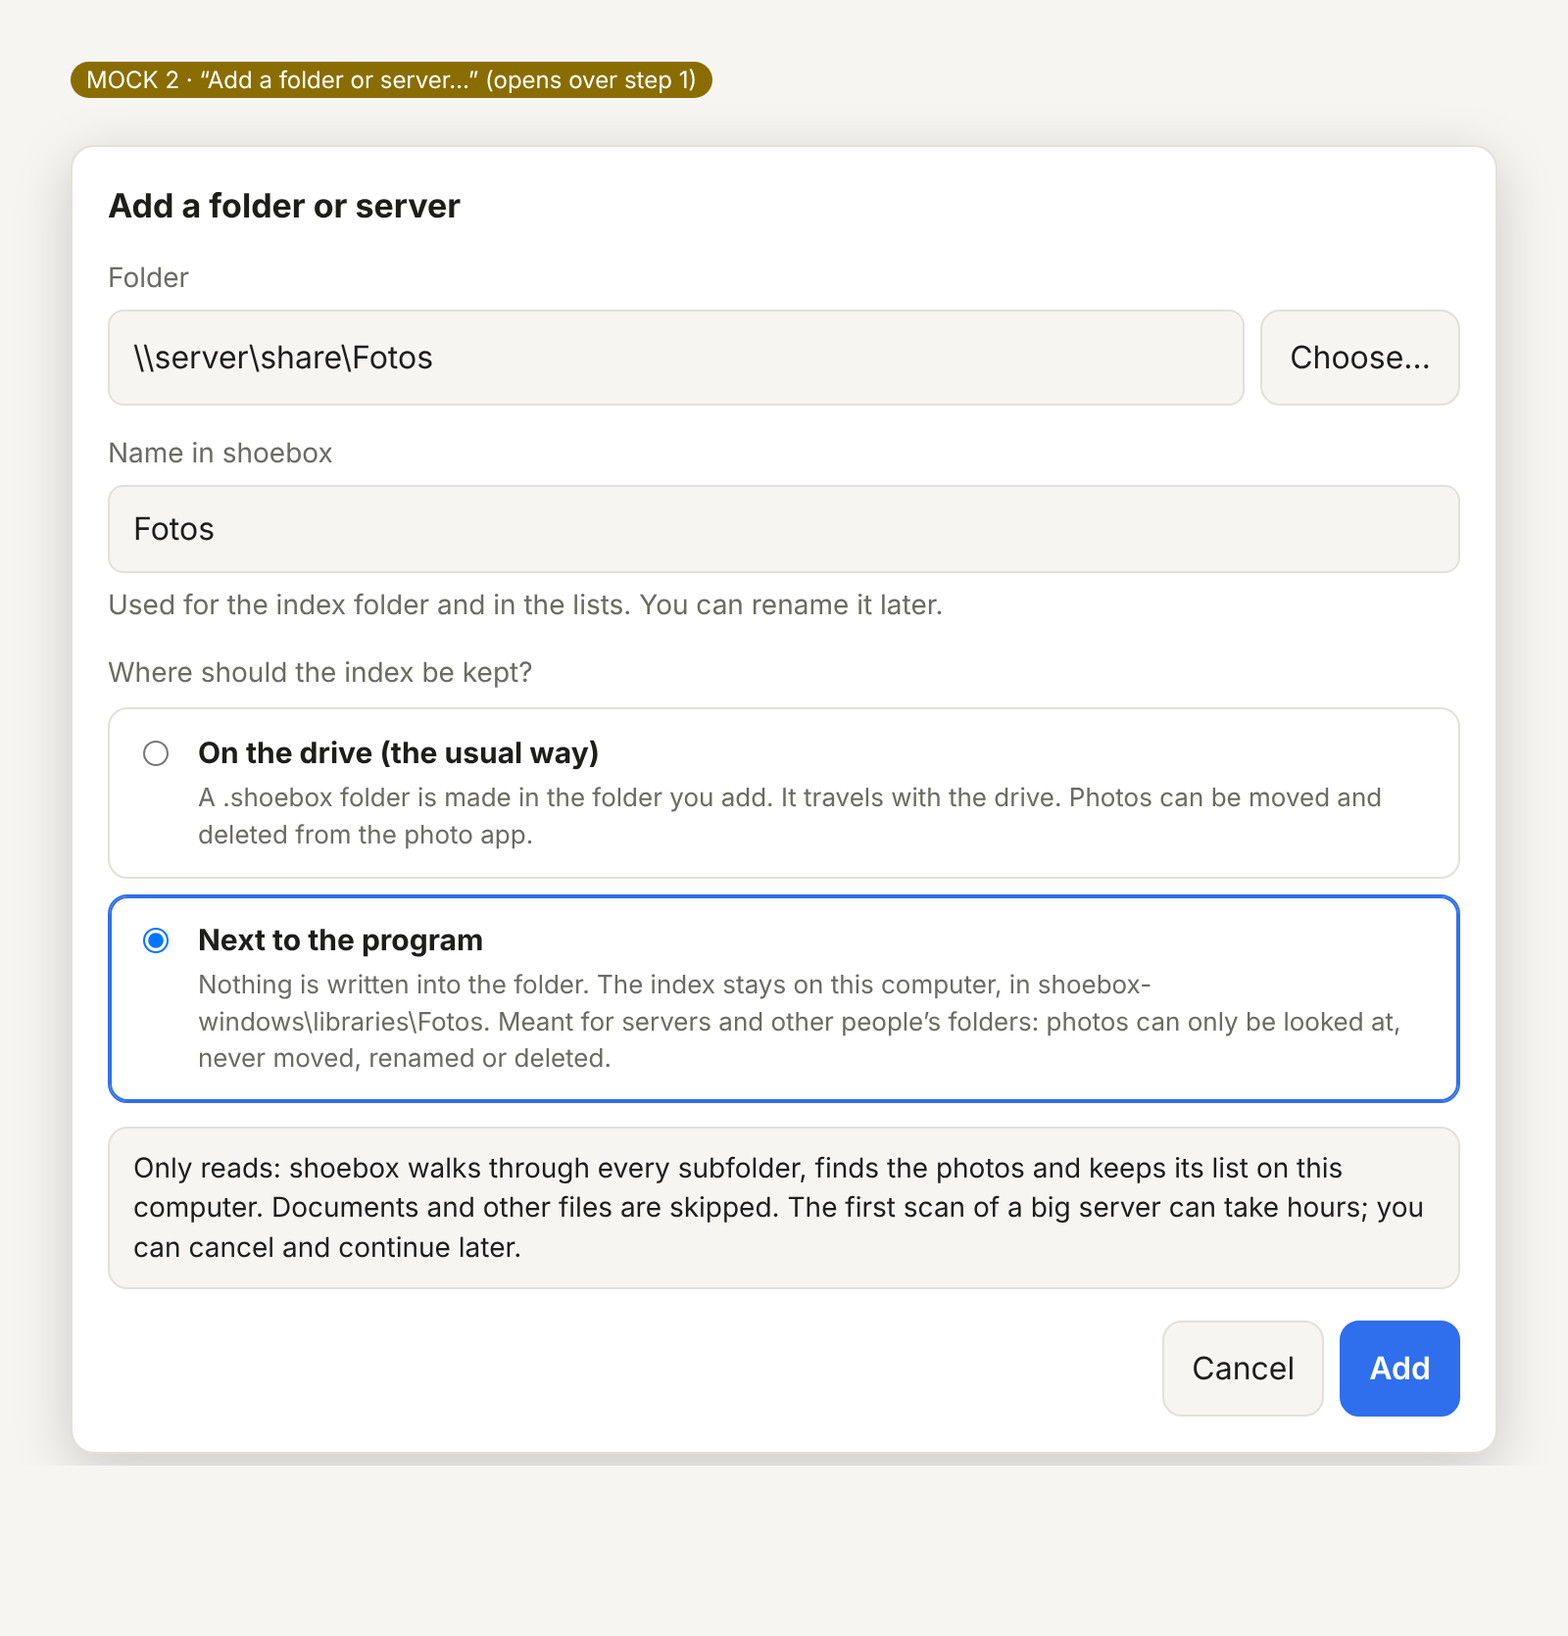
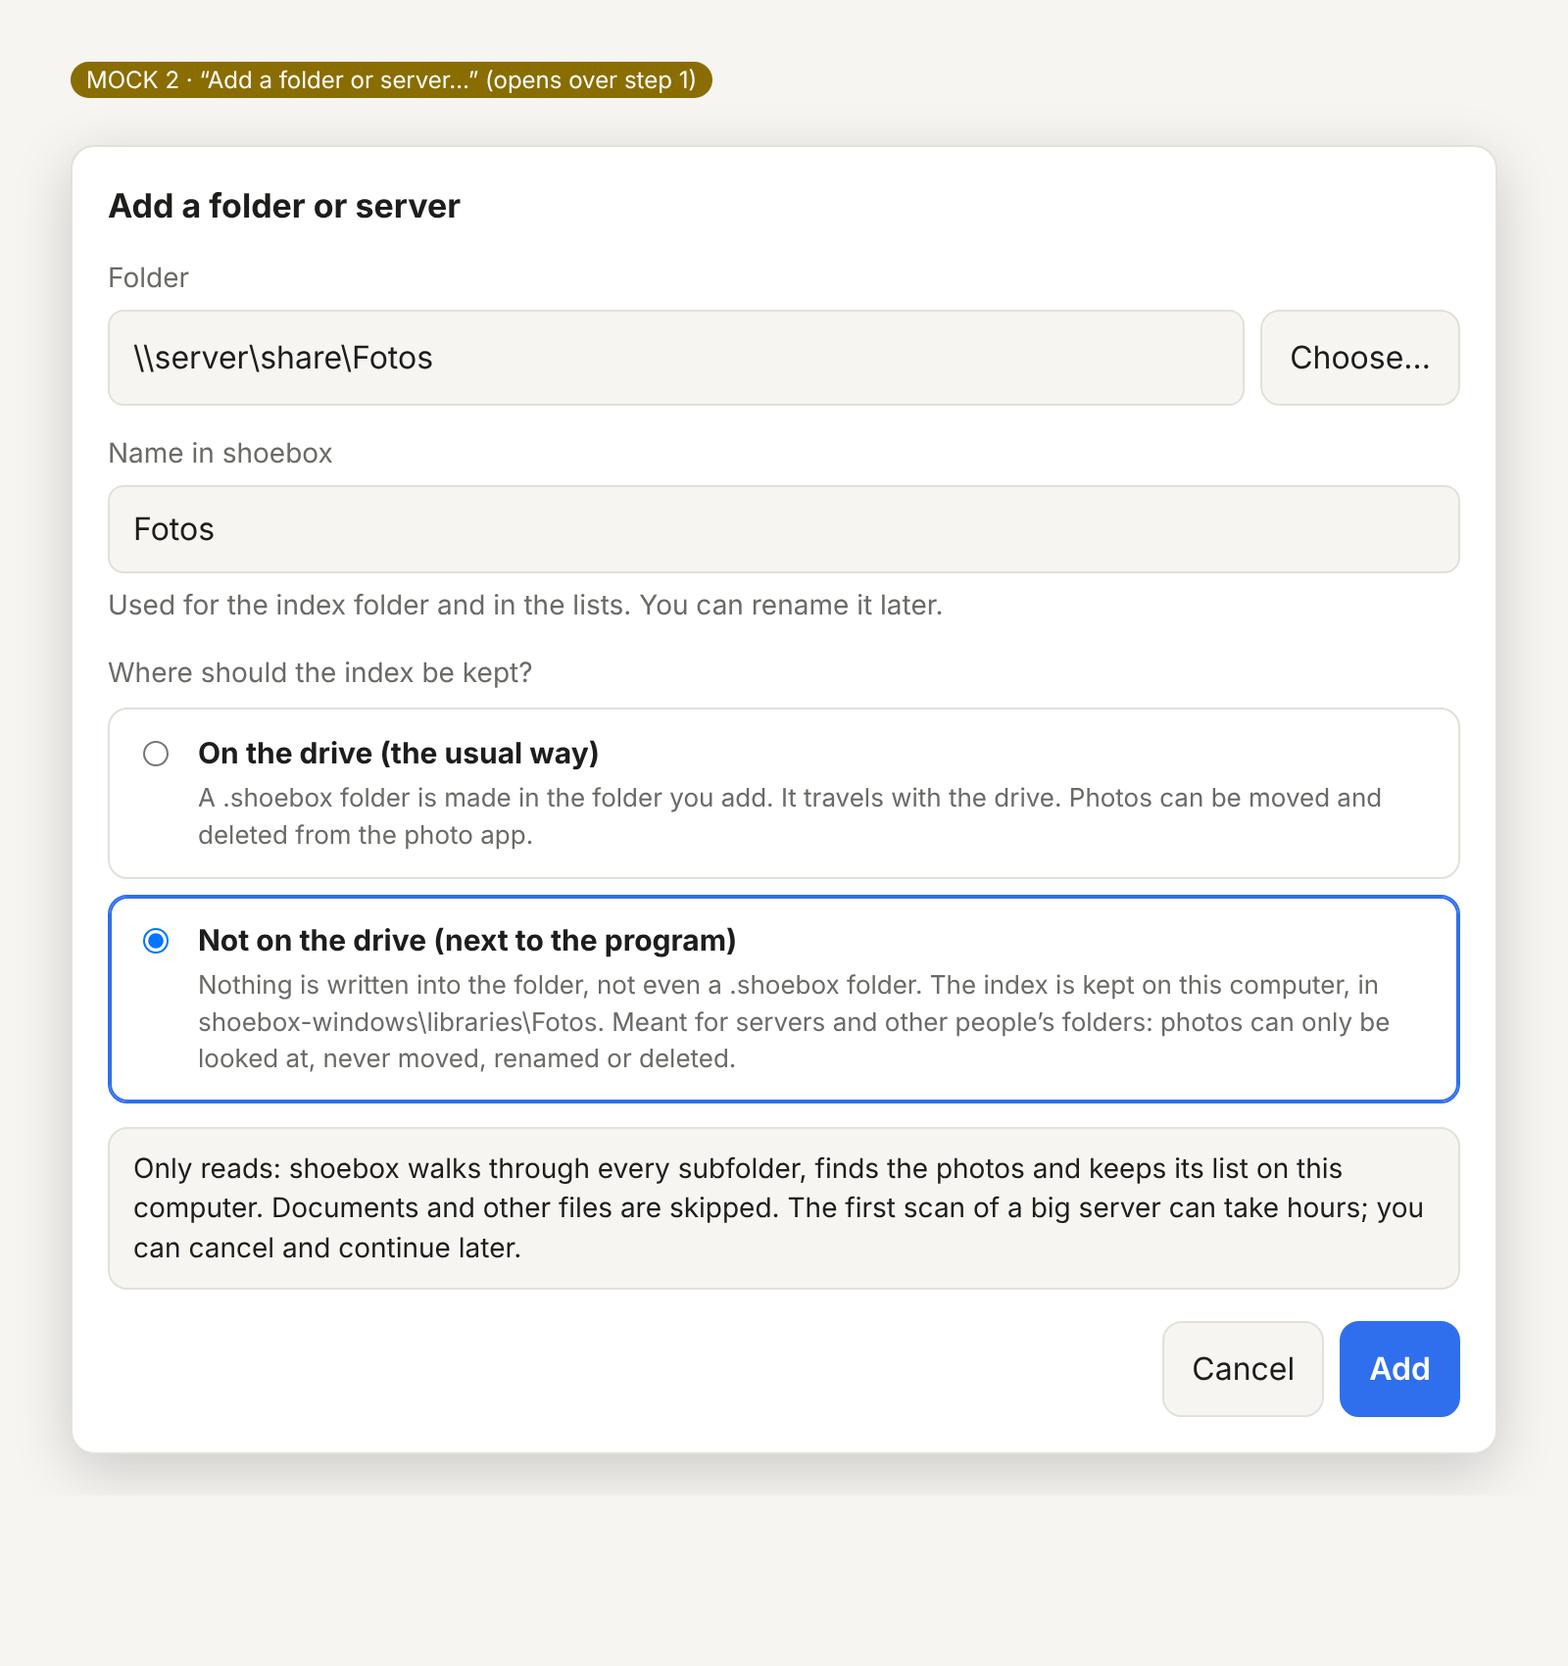
Phase 16: mock-ups with 'not on drive' wording, info tooltip and Manage button
Claude-Session: https://claude.ai/code/session_01TnpjuTinEZ7nyfnFiQu3jP

diff --git a/docs/mocks/phase16/01b-step1-tooltip.html b/docs/mocks/phase16/01b-step1-tooltip.html
@@ -1,0 +1,68 @@
+<!doctype html><html lang="en"><head><meta charset="utf-8">
+<meta name="viewport" content="width=device-width, initial-scale=1">
+<link rel="stylesheet" href="../../../core/launcher-web/launcher.css">
+<style>
+/* what phase 16 adds to launcher.css */
+body{padding-top:4px}
+.badge.here{color:var(--accent);}
+.chips button.lib{display:inline-flex;gap:8px;align-items:center}
+.chips button.lib span{font-size:14px;color:var(--text);margin:0;display:inline}
+.chips button.lib .badge{font-size:11px;font-weight:600;color:var(--accent)}
+.chips button.off{border-style:dashed;color:var(--muted)}
+.chips button.off span{color:var(--muted)}
+.chips button.off .badge{color:var(--muted)}
+.row-head{display:flex;justify-content:space-between;align-items:center;gap:12px;margin-top:14px}
+.row-head .hint{margin:0}
+button.quiet{margin-left:0;padding:6px 14px;font-size:14px}
+.field{margin-top:14px}
+.field .pathrow{display:flex;gap:8px}
+.field .pathrow button{white-space:nowrap}
+.choice{display:flex;gap:12px;align-items:flex-start;padding:12px;border:1px solid var(--line);border-radius:10px;margin-top:8px;color:var(--text);font-size:15px}
+.choice input{margin-top:4px}
+.choice.on{border-color:var(--accent);box-shadow:0 0 0 1px var(--accent) inset}
+.choice b{display:block} .choice span{display:block;color:var(--muted);font-size:13px;margin-top:2px}
+.note{margin-top:12px;padding:10px 12px;border-radius:10px;background:var(--bg);border:1px solid var(--line);font-size:14px}
+.note.warn{border-color:var(--bad);color:var(--bad)}
+.note.ok{color:var(--ok)}
+.btnrow{display:flex;gap:8px;justify-content:flex-end;margin-top:16px}
+.btnrow button{text-align:center}
+.libs{list-style:none;margin:10px 0 0;padding:0;border:1px solid var(--line);border-radius:10px}
+.libs li{padding:12px 14px;border-bottom:1px solid var(--line)}
+.libs li:last-child{border-bottom:0}
+.libs .top{display:flex;justify-content:space-between;gap:12px;align-items:center}
+.libs .name{font-weight:600} .libs .path{color:var(--muted);font-size:13px;word-break:break-all}
+.libs .acts{display:flex;gap:6px;flex-wrap:wrap;margin-top:8px}
+.libs .acts button{padding:4px 12px;font-size:13px;border-radius:8px}
+.libs .acts .danger{padding:4px 12px}
+.pill{padding:2px 10px;border-radius:999px;background:var(--bg);border:1px solid var(--line);font-size:13px;white-space:nowrap}
+.pill.ok{color:var(--ok)} .pill.off{color:var(--muted);border-style:dashed}
+.sheet{box-shadow:0 8px 30px rgba(0,0,0,.18)}
+.mocktag{font:12px system-ui;color:#fff;background:#8a6d00;display:inline-block;padding:2px 8px;border-radius:999px;margin:0 0 8px}
+
+.lbl{display:inline-flex;align-items:center;gap:6px}
+.info{position:static;display:inline-flex;width:20px;height:20px;color:var(--muted);cursor:help}
+.info svg{width:20px;height:20px;fill:none;stroke:currentColor;stroke-width:1.7;stroke-linecap:round;stroke-linejoin:round}
+.info svg .dot{fill:currentColor;stroke:none}
+.info:hover{color:var(--accent)}
+.tip{display:none;position:absolute;left:0;top:34px;z-index:5;width:min(460px,100%);padding:10px 12px;border-radius:10px;background:var(--text);color:var(--card);font-size:13px;line-height:1.4;font-weight:400;text-align:left;box-shadow:0 6px 20px rgba(0,0,0,.25)}
+.info:hover .tip,.tipopen .tip{display:block}
+.tipopen .info{color:var(--accent)}
+.row-head,.title-row{position:relative}
+</style></head><body class="tipopen"><main>
+<p class="mocktag">MOCK 1b · hovering the info icon</p>
+<section class="card">
+  <h2>1 · Where are your photos?</h2>
+  <label>Drives or photo folders (type a path, press Enter to add it)</label>
+  <div class="chipbox"><ul>
+    <li><span class="name">Fotos (\\server\share\Fotos)</span><span class="badge here">not on drive</span><button aria-label="remove">×</button></li>
+    <li><span class="name">Extreme SSD</span><span class="badge">✓</span><button aria-label="remove">×</button></li>
+  </ul><input placeholder="/Volumes/MyDrive"></div>
+  <p class="hint">Detected drives, click to add:</p>
+  <div class="chips"><button class="has-lib">Extreme SSD</button><button>Backup 2TB</button></div>
+  <div class="row-head"><p class="hint lbl">Libraries kept next to the program / not on drive <span class="info" tabindex="0" aria-label="Libraries kept next to the program / not on drive"><svg viewBox="0 0 24 24" aria-hidden="true"><rect x="5.2" y="5.2" width="13.6" height="13.6" rx="3.6" transform="rotate(45 12 12)"/><circle class="dot" cx="12" cy="8.6" r="1.2"/><path d="M12 11.6v4.6"/></svg><span class="tip">Not on drive: the .shoebox folder is not created inside the drive’s root. Instead, a libraries folder is added next to the program, and the index of each library is kept there. Nothing is written into your photo folder.</span></span></p><button class="quiet">Manage…</button></div>
+  <div class="chips">
+    <button class="lib"><span>Fotos</span><span class="badge">not on drive</span></button>
+    <button class="lib off"><span>Büro-Archiv</span><span class="badge">not connected</span></button>
+    <button class="quiet">＋ Add a folder or server…</button>
+  </div>
+</section></main></body></html>

diff --git a/docs/mocks/phase16/04-step1-libraries-de.html b/docs/mocks/phase16/04-step1-libraries-de.html
@@ -38,20 +38,30 @@ button.quiet{margin-left:0;padding:6px 14px;font-size:14px}
 .pill.ok{color:var(--ok)} .pill.off{color:var(--muted);border-style:dashed}
 .sheet{box-shadow:0 8px 30px rgba(0,0,0,.18)}
 .mocktag{font:12px system-ui;color:#fff;background:#8a6d00;display:inline-block;padding:2px 8px;border-radius:999px;margin:0 0 8px}
-</style></head><body><main>
+
+.lbl{display:inline-flex;align-items:center;gap:6px}
+.info{position:static;display:inline-flex;width:20px;height:20px;color:var(--muted);cursor:help}
+.info svg{width:20px;height:20px;fill:none;stroke:currentColor;stroke-width:1.7;stroke-linecap:round;stroke-linejoin:round}
+.info svg .dot{fill:currentColor;stroke:none}
+.info:hover{color:var(--accent)}
+.tip{display:none;position:absolute;left:0;top:34px;z-index:5;width:min(460px,100%);padding:10px 12px;border-radius:10px;background:var(--text);color:var(--card);font-size:13px;line-height:1.4;font-weight:400;text-align:left;box-shadow:0 6px 20px rgba(0,0,0,.25)}
+.info:hover .tip,.tipopen .tip{display:block}
+.tipopen .info{color:var(--accent)}
+.row-head,.title-row{position:relative}
+</style></head><body class="tipopen"><main>
 <p class="mocktag">MOCK 1 · Control Panel, step 1</p>
 <section class="card">
   <h2>1 · Wo sind deine Fotos?</h2>
   <label>Laufwerke oder Fotoordner (Pfad eintippen, mit Enter hinzufügen)</label>
   <div class="chipbox"><ul>
-    <li><span class="name">Fotos (\\server\share\Fotos)</span><span class="badge here">Index neben dem Programm</span><button aria-label="remove">×</button></li>
+    <li><span class="name">Fotos (\\server\share\Fotos)</span><span class="badge here">nicht auf dem Laufwerk</span><button aria-label="remove">×</button></li>
     <li><span class="name">Extreme SSD</span><span class="badge">✓</span><button aria-label="remove">×</button></li>
   </ul><input placeholder="/Volumes/MyDrive"></div>
   <p class="hint">Erkannte Laufwerke, zum Hinzufügen anklicken:</p>
   <div class="chips"><button class="has-lib">Extreme SSD</button><button>Backup 2TB</button></div>
-  <div class="row-head"><p class="hint">Bibliotheken neben dem Programm:</p></div>
+  <div class="row-head"><p class="hint lbl">Bibliotheken neben dem Programm / nicht auf dem Laufwerk <span class="info" tabindex="0" aria-label="Bibliotheken neben dem Programm / nicht auf dem Laufwerk"><svg viewBox="0 0 24 24" aria-hidden="true"><rect x="5.2" y="5.2" width="13.6" height="13.6" rx="3.6" transform="rotate(45 12 12)"/><circle class="dot" cx="12" cy="8.6" r="1.2"/><path d="M12 11.6v4.6"/></svg><span class="tip">Nicht auf dem Laufwerk: Der Ordner .shoebox wird nicht im Stammordner des Laufwerks angelegt. Stattdessen entsteht neben dem Programm ein Ordner „libraries“, in dem der Index jeder Bibliothek liegt. In deinen Fotoordner wird nichts geschrieben.</span></span></p><button class="quiet">Verwalten…</button></div>
   <div class="chips">
-    <button class="lib"><span>Fotos</span><span class="badge">Index neben dem Programm</span></button>
+    <button class="lib"><span>Fotos</span><span class="badge">nicht auf dem Laufwerk</span></button>
     <button class="lib off"><span>Büro-Archiv</span><span class="badge">nicht verbunden</span></button>
     <button class="quiet">＋ Ordner oder Server hinzufügen…</button>
   </div>

diff --git a/docs/mocks/phase16/01-step1-libraries.html b/docs/mocks/phase16/01-step1-libraries.html
@@ -38,20 +38,30 @@ button.quiet{margin-left:0;padding:6px 14px;font-size:14px}
 .pill.ok{color:var(--ok)} .pill.off{color:var(--muted);border-style:dashed}
 .sheet{box-shadow:0 8px 30px rgba(0,0,0,.18)}
 .mocktag{font:12px system-ui;color:#fff;background:#8a6d00;display:inline-block;padding:2px 8px;border-radius:999px;margin:0 0 8px}
+
+.lbl{display:inline-flex;align-items:center;gap:6px}
+.info{position:static;display:inline-flex;width:20px;height:20px;color:var(--muted);cursor:help}
+.info svg{width:20px;height:20px;fill:none;stroke:currentColor;stroke-width:1.7;stroke-linecap:round;stroke-linejoin:round}
+.info svg .dot{fill:currentColor;stroke:none}
+.info:hover{color:var(--accent)}
+.tip{display:none;position:absolute;left:0;top:34px;z-index:5;width:min(460px,100%);padding:10px 12px;border-radius:10px;background:var(--text);color:var(--card);font-size:13px;line-height:1.4;font-weight:400;text-align:left;box-shadow:0 6px 20px rgba(0,0,0,.25)}
+.info:hover .tip,.tipopen .tip{display:block}
+.tipopen .info{color:var(--accent)}
+.row-head,.title-row{position:relative}
 </style></head><body><main>
-<p class="mocktag">MOCK 1 · Control Panel, step 1</p>
+<p class="mocktag">MOCK 1 · Control Panel, step 1 (“Manage…” opens mock 3)</p>
 <section class="card">
   <h2>1 · Where are your photos?</h2>
   <label>Drives or photo folders (type a path, press Enter to add it)</label>
   <div class="chipbox"><ul>
-    <li><span class="name">Fotos (\\server\share\Fotos)</span><span class="badge here">index next to the program</span><button aria-label="remove">×</button></li>
+    <li><span class="name">Fotos (\\server\share\Fotos)</span><span class="badge here">not on drive</span><button aria-label="remove">×</button></li>
     <li><span class="name">Extreme SSD</span><span class="badge">✓</span><button aria-label="remove">×</button></li>
   </ul><input placeholder="/Volumes/MyDrive"></div>
   <p class="hint">Detected drives, click to add:</p>
   <div class="chips"><button class="has-lib">Extreme SSD</button><button>Backup 2TB</button></div>
-  <div class="row-head"><p class="hint">Libraries kept next to the program:</p></div>
+  <div class="row-head"><p class="hint lbl">Libraries kept next to the program / not on drive <span class="info" tabindex="0" aria-label="Libraries kept next to the program / not on drive"><svg viewBox="0 0 24 24" aria-hidden="true"><rect x="5.2" y="5.2" width="13.6" height="13.6" rx="3.6" transform="rotate(45 12 12)"/><circle class="dot" cx="12" cy="8.6" r="1.2"/><path d="M12 11.6v4.6"/></svg><span class="tip">Not on drive: the .shoebox folder is not created inside the drive’s root. Instead, a libraries folder is added next to the program, and the index of each library is kept there. Nothing is written into your photo folder.</span></span></p><button class="quiet">Manage…</button></div>
   <div class="chips">
-    <button class="lib"><span>Fotos</span><span class="badge">index next to the program</span></button>
+    <button class="lib"><span>Fotos</span><span class="badge">not on drive</span></button>
     <button class="lib off"><span>Büro-Archiv</span><span class="badge">not connected</span></button>
     <button class="quiet">＋ Add a folder or server…</button>
   </div>

diff --git a/docs/mocks/phase16/03-manage-libraries.html b/docs/mocks/phase16/03-manage-libraries.html
@@ -36,10 +36,20 @@ button.quiet{margin-left:0;padding:6px 14px;font-size:14px}
 .pill.ok{color:var(--ok)} .pill.off{color:var(--muted);border-style:dashed}
 .sheet{box-shadow:0 8px 30px rgba(0,0,0,.18)}
 .mocktag{font:12px system-ui;color:#fff;background:#8a6d00;display:inline-block;padding:2px 8px;border-radius:999px;margin:0 0 8px}
+
+.lbl{display:inline-flex;align-items:center;gap:6px}
+.info{position:static;display:inline-flex;width:20px;height:20px;color:var(--muted);cursor:help}
+.info svg{width:20px;height:20px;fill:none;stroke:currentColor;stroke-width:1.7;stroke-linecap:round;stroke-linejoin:round}
+.info svg .dot{fill:currentColor;stroke:none}
+.info:hover{color:var(--accent)}
+.tip{display:none;position:absolute;left:0;top:34px;z-index:5;width:min(460px,100%);padding:10px 12px;border-radius:10px;background:var(--text);color:var(--card);font-size:13px;line-height:1.4;font-weight:400;text-align:left;box-shadow:0 6px 20px rgba(0,0,0,.25)}
+.info:hover .tip,.tipopen .tip{display:block}
+.tipopen .info{color:var(--accent)}
+.row-head,.title-row{position:relative}
 </style></head><body><main>
-<p class="mocktag">MOCK 3 · Libraries next to the program: manage</p>
+<p class="mocktag">MOCK 3 · opens under the row in step 1 when you press “Manage…”</p>
 <section class="card">
-  <div class="title-row"><h2>Libraries next to the program</h2></div>
+  <div class="title-row"><h2 class="lbl">Libraries kept next to the program / not on drive <span class="info" tabindex="0" aria-label="Libraries kept next to the program / not on drive"><svg viewBox="0 0 24 24" aria-hidden="true"><rect x="5.2" y="5.2" width="13.6" height="13.6" rx="3.6" transform="rotate(45 12 12)"/><circle class="dot" cx="12" cy="8.6" r="1.2"/><path d="M12 11.6v4.6"/></svg><span class="tip">Not on drive: the .shoebox folder is not created inside the drive’s root. Instead, a libraries folder is added next to the program, and the index of each library is kept there. Nothing is written into your photo folder.</span></span></h2><button class="quiet">Close</button></div>
   <p class="hint">Their index lives in <b>shoebox-windows\libraries\</b>. The folders themselves are only read.</p>
   <ul class="libs">
     <li>
@@ -65,5 +75,5 @@ button.quiet{margin-left:0;padding:6px 14px;font-size:14px}
 </section>
 <section class="card">
   <h2>If the program folder cannot be written to</h2>
-  <p class="note warn" style="margin:0">“Next to the program” is not available: shoebox cannot write to <code>C:\Program Files\shoebox-windows</code>. Move the shoebox folder to your Documents or Desktop, or keep the index on the drive.</p>
+  <p class="note warn" style="margin:0">“Not on the drive” is not available: shoebox cannot write to <code>C:\Program Files\shoebox-windows</code>. Move the shoebox folder to your Documents or Desktop, or keep the index on the drive.</p>
 </section></main></body></html>

diff --git a/docs/mocks/phase16/02-add-folder-or-server.html b/docs/mocks/phase16/02-add-folder-or-server.html
@@ -45,7 +45,7 @@ button.quiet{margin-left:0;padding:6px 14px;font-size:14px}
   <div class="field"><label>Name in shoebox</label><input value="Fotos"><p class="hint">Used for the index folder and in the lists. You can rename it later.</p></div>
   <div class="field"><label>Where should the index be kept?</label>
     <label class="choice"><input type="radio" name="w"><div><b>On the drive (the usual way)</b><span>A .shoebox folder is made in the folder you add. It travels with the drive. Photos can be moved and deleted from the photo app.</span></div></label>
-    <label class="choice on"><input type="radio" name="w" checked><div><b>Next to the program</b><span>Nothing is written into the folder. The index stays on this computer, in shoebox-windows\libraries\Fotos. Meant for servers and other people’s folders: photos can only be looked at, never moved, renamed or deleted.</span></div></label></div>
+    <label class="choice on"><input type="radio" name="w" checked><div><b>Not on the drive (next to the program)</b><span>Nothing is written into the folder, not even a .shoebox folder. The index is kept on this computer, in shoebox-windows\libraries\Fotos. Meant for servers and other people’s folders: photos can only be looked at, never moved, renamed or deleted.</span></div></label></div>
   <p class="note">Only reads: shoebox walks through every subfolder, finds the photos and keeps its list on this computer. Documents and other files are skipped. The first scan of a big server can take hours; you can cancel and continue later.</p>
   <div class="btnrow"><button>Cancel</button><button class="primary">Add</button></div>
 </section></main></body></html>

diff --git a/docs/phase16.md b/docs/phase16.md
@@ -110,15 +110,24 @@ Step 2 "Select drives" lists, in this order:
 
 1. the drives found (as today);
 2. the libraries from `libraries.json`, each with its name, root path and a
-   small badge ("next to the program" / "neben dem Programm"), greyed with
-   "offline" when the root cannot be read (share not connected), exactly like
-   a missing drive.
+   small badge **"not on drive" / "nicht auf dem Laufwerk"**, greyed with
+   "not connected" when the root cannot be read (share not connected), exactly
+   like a missing drive. The row is headed "Libraries kept next to the program
+   / not on drive" ("Bibliotheken neben dem Programm / nicht auf dem
+   Laufwerk") with an info icon (our own drawing, a rounded diamond with an
+   i) whose tooltip says that the `.shoebox` folder is not created in the
+   drive's root, a `libraries` folder is added next to the program instead, and
+   nothing is written into the photo folder. At the end of the row sit the
+   buttons **Manage…** ("Verwalten…"), which opens the management panel under
+   the row, and "+ Add a folder or server…". Mock-ups:
+   [docs/mocks/phase16/](mocks/phase16/) (approved wording: the user chose "not
+   on drive").
 
 An "Add a folder or server…" form (path field + folder picker where the
 browser can give one, as for export) gets a choice:
 
 - **Keep the index on the drive** (default; today's behaviour);
-- **Keep the index next to the program** (asks for a name; shown only when the
+- **Not on the drive (next to the program)** (asks for a name; shown only when the
   program folder is writable, otherwise the row says why: "the program folder
   is read-only, move shoebox out of Program Files").
 
